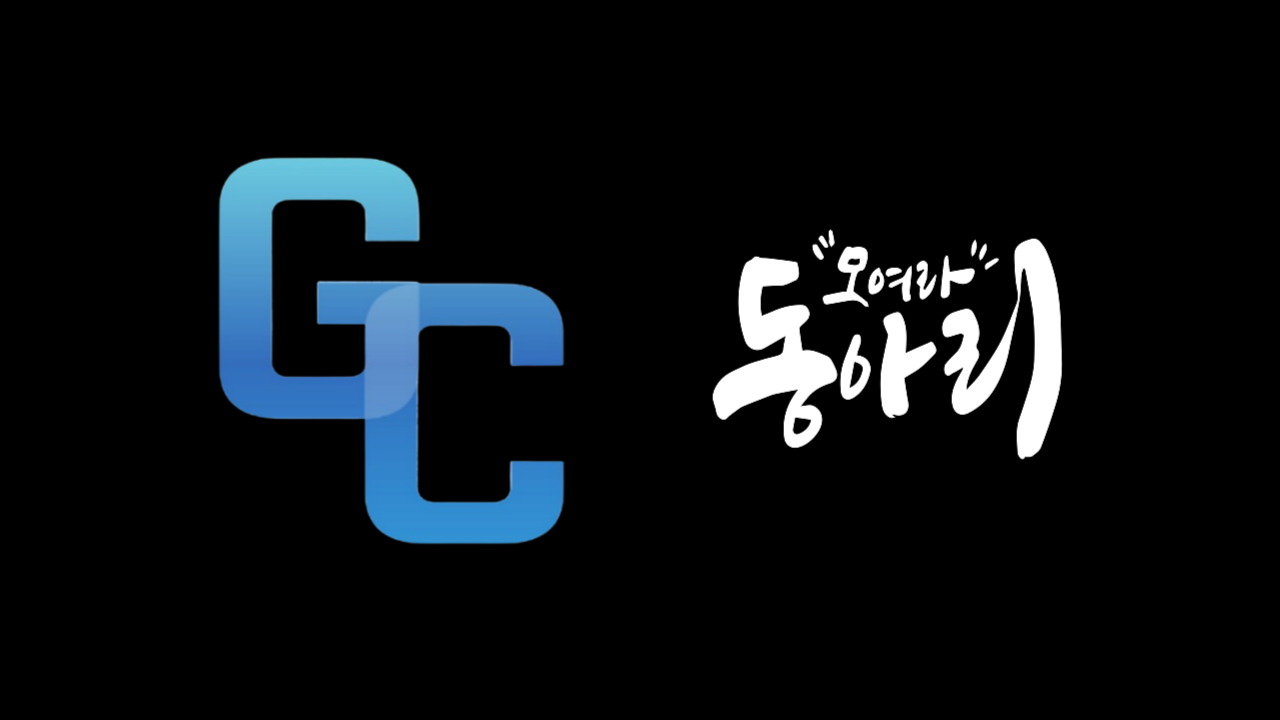
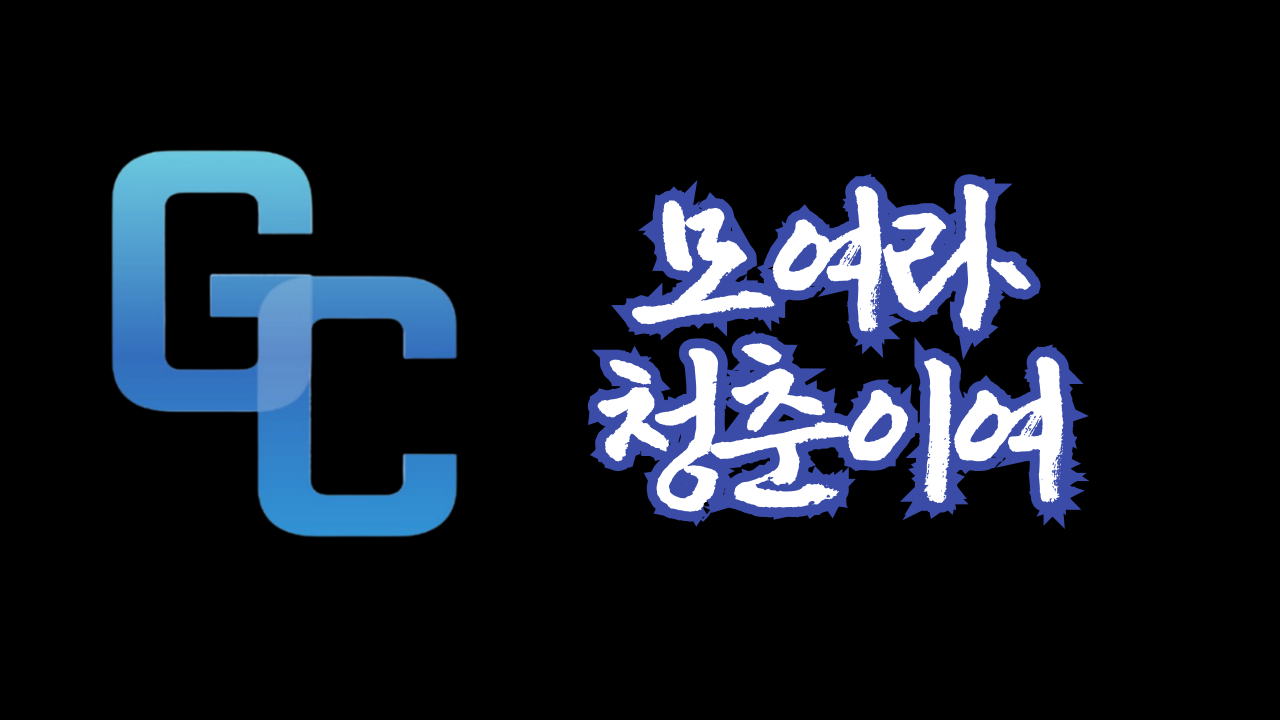
배너 이미지 수정

Changed region(s): [[0.0625, 0.1833, 0.8438, 0.7639]]

diff --git a/Front/src/screens/mainPage/mainScreen.jsx b/Front/src/screens/mainPage/mainScreen.jsx
@@ -2,32 +2,38 @@ import { View, Text, ScrollView, Image, StyleSheet, TouchableOpacity, ActivityIn
 import { SafeAreaProvider, SafeAreaView } from 'react-native-safe-area-context';
 import AsyncStorage from '@react-native-async-storage/async-storage';
 import React, {useEffect, useState} from 'react';
-
+import axios from 'axios';
 
 const MainScreen =  ({navigation}) => {
-  const [userData, setUserData] = useState(null); // 사용자 데이터 상태
   const [loading, setLoading] = useState(true); // 로딩 상태
-
+  const [userData, setuserData] = useState(null);
+  const [banner, setbanner] = useState(null);
   const morePromotion= () => {
     navigation.navigate('MorePromotion')
   }
 
   // 사용자 정보 가져오기 (AsyncStorage에서)
   const fetchUserInfo = async () => {
-    try {
-      const storedUserData = await AsyncStorage.getItem('UserData');
-      if (storedUserData) {
-        const userInfo = JSON.parse(storedUserData); // 저장된 JSON 데이터를 객체로 변환
-        setUserData(userInfo); // 사용자 정보 상태에 저장
-      } else {
-        console.log('사용자 정보가 저장되어 있지 않습니다.');
-      }
-    } catch (error) {
-      console.error('사용자 정보를 불러오는 중 오류 발생:', error);
-    } finally {
-      setLoading(false); // 로딩 완료
+    const token = await AsyncStorage.getItem('jwtToken');
+    const storedUserData = await AsyncStorage.getItem('UserData');
+    console.log('Token:', token); 
+    if (token || storedUserData) {
+        try {
+            const userInfo = JSON.parse(storedUserData); // 저장된 JSON 데이터를 객체로 변환
+            const Id = userInfo.userId
+            const response = await axios.get(`http://10.0.2.2:8001/page/home/${Id}`, { //차후 수정 예정 이거 데이터가 안옮겨져서 임시로 1로 함
+                headers: { Authorization: `Bearer ${token}` },
+            });
+            console.log(response.data.result.banner)
+          setbanner(response.data.result.banner)
+          setuserData(response.data.result.myClub.map((entry) => entry.clan)); //응답 결과에서 동아리 정보 분리
+        } catch (err) {
+            console.error('Failed to fetch user info:', err);
+        } finally {
+          setLoading(false);
+        }
     }
-  };
+};
 
   useEffect(() => {
     fetchUserInfo(); // 컴포넌트 렌더링 시 사용자 정보 가져오기
@@ -42,14 +48,6 @@ const MainScreen =  ({navigation}) => {
     );
   }
 
-  if (!userData) {
-    return (
-      <View style={styles.container}>
-        <Text>사용자 정보를 불러오는 데 실패했습니다.</Text>
-      </View>
-    );
-  }
-
   return (
     <SafeAreaProvider>
     <SafeAreaView style={{flex : 1, backgroundColor : 'white'}}>
@@ -58,36 +56,25 @@ const MainScreen =  ({navigation}) => {
     </View>
   <ScrollView showsVerticalScrollIndicator={false}>
     <View style={styles.container}>
-      <View style={styles.banner}>
-        <Text style={styles.bannerText}>{userData.userName}</Text>
-      </View>
+      <Image style={styles.banner} src={`http://10.0.2.2:8001${banner}`}>
+      </Image>
 
+      {/* 동아리 표시 블록*/}
       <View style={styles.section}>
         <Text style={styles.sectionTitle}>내 동아리</Text>
-        <ScrollView style={styles.clubContainer} horizontal contentContainerStyle={{ flexDirection: 'row' }} showsHorizontalScrollIndicator={false}>
-          <View style={{marginRight:20}}>
+        <ScrollView horizontal contentContainerStyle={{flexDirection : 'row'}} showsHorizontalScrollIndicator={false}>
+          {userData.map((entry, index) => (
+          <View key={index} style={{ marginRight: 20 }}>
           <TouchableOpacity style={styles.clubBox}>
+            <Image style={styles.clubBox} src={`http://10.0.2.2:8001${entry.clanImg}`}></Image>
           </TouchableOpacity>
-          <Text style={{textAlign:'center'}}>동아리명</Text>
-          </View>
-          
-          <View style={{marginRight:20}}>
-          <TouchableOpacity style={styles.clubBox}>
-          </TouchableOpacity>
-          <Text style={{textAlign:'center'}}>동아리명</Text>
-          </View>
-          <View style={{marginRight:20}}>
-          <TouchableOpacity style={styles.clubBox}>
-          </TouchableOpacity>
-          <Text style={{textAlign:'center'}}>동아리명</Text>
-          </View>
-          <View style={{marginRight:20}}>
-          <TouchableOpacity style={styles.clubBox}>
-          </TouchableOpacity>
-          <Text style={{textAlign:'center'}}>동아리명</Text>
-          </View>
+          <Text style={{ textAlign: 'center' }}>{entry.clanName}</Text>
+        </View>
+      ))}
         </ScrollView>
       </View>
+
+
 
       <View style={{height:10, backgroundColor:'#d9d9d9'}}></View>
 
@@ -96,7 +83,7 @@ const MainScreen =  ({navigation}) => {
         <Text style={styles.sectionTitle}>홍보글</Text>
         <TouchableOpacity onPress={morePromotion}><Text style={{color:"#0091da", marginTop:10}}>더 보기</Text></TouchableOpacity></View>
 
-        <ScrollView style={styles.clubContainer} horizontal contentContainerStyle={{ flexDirection: 'row' }} showsHorizontalScrollIndicator={false}>
+        <ScrollView horizontal contentContainerStyle={{ flexDirection: 'row' }} showsHorizontalScrollIndicator={false}>
           <View style={{marginRight:20}}>
           <TouchableOpacity style={styles.clubBox}>
           </TouchableOpacity>
@@ -173,14 +160,12 @@ const styles = StyleSheet.create({
   },
   section: {
     padding: 20,
+    borderWidth: 1
   },
   sectionTitle: {
     fontSize: 24,
     fontWeight: 'bold',
     marginBottom: 10
-  },
-  clubContainer: {
-    flexDirection: 'row'
   },
   promoContainer: {
     flexDirection: 'row',

diff --git a/Front/src/screens/myPage/myPage.jsx b/Front/src/screens/myPage/myPage.jsx
@@ -67,7 +67,6 @@ const MyPage = ({ setIsSignedIn, navigation }) => {
                 headers: { Authorization: `Bearer ${token}` },
             });
             console.log('User Info:', response.data.result.user);
-            console.log('음?', response.data.result.user)
             setUserInfo(response.data.result.user); // 사용자 정보를 상태로 저장
             setAvatarUri(`http://10.0.2.2:8001${response.data.result.user.userImg}`); // 서버의 이미지 URL
         } catch (err) {
@@ -162,7 +161,7 @@ if (!userInfo) {
             <Text style={styles.infoLabel}>학번: {userInfo.userNum}</Text>
           </View>
           <View style={styles.infoItem}>
-            <Text style={styles.infoLabel}>단과대학: {userInfo.collage}</Text>
+            <Text style={styles.infoLabel}>단과대학: {userInfo.collage_collage.collageName}</Text>
           </View>
           <View style={styles.infoItem}>
             <Text style={styles.infoLabel}>학과: {userInfo.userLesson}</Text>

diff --git a/gc_back_gi/models/db.js b/gc_back_gi/models/db.js
@@ -2,7 +2,7 @@ var Sequelize = require("sequelize");
 const initModels = require("./init-models"); // initModels 함수를 가져옴
 var sequelize;
 
-sequelize = new Sequelize("gc7", "root", "1234", {
+sequelize = new Sequelize("gc8", "root", "1234", {
     host: "localhost",
     port: 3306,
     dialect: "mysql",
